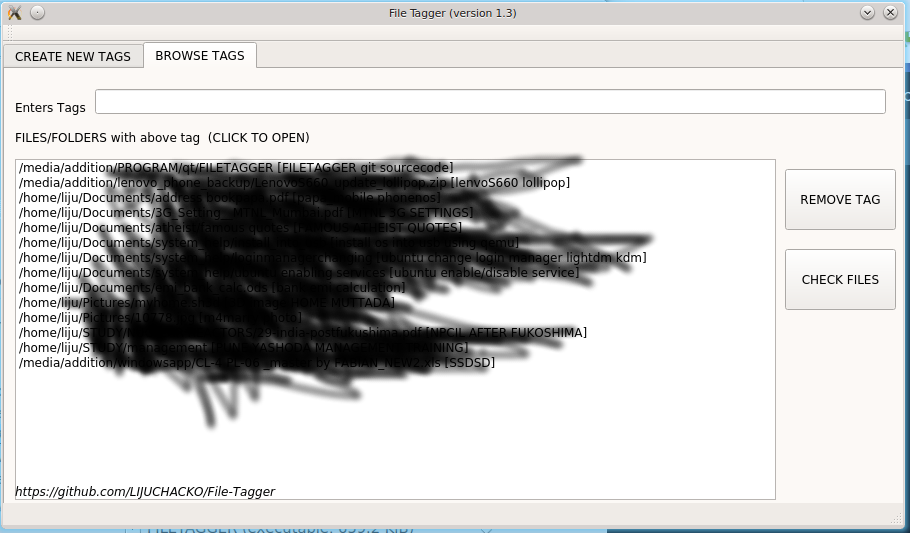
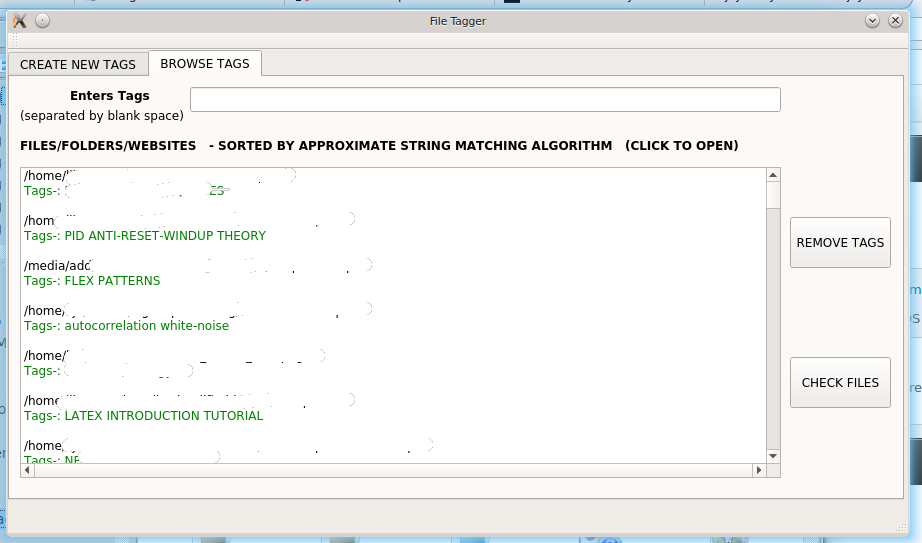
interface modified, corrected windows file separator bug

diff --git a/filetagger.cpp b/filetagger.cpp
@@ -40,7 +40,7 @@ float wordmatching(const QString &wordq1,const QString &wordq2)
     strcpy(word1,wordq1.toStdString().c_str());
     strcpy(word2,wordq2.toStdString().c_str());
 
-    int word1len, word2len ,consder1[200], consder2[200],k,i,j;
+    int word1len, word2len ,k,i,j;
 
     //tolower
     for(i=0;i<=strlen(word1);i++){
@@ -119,11 +119,13 @@ FileTagger::FileTagger(QWidget *parent) :
     ui->setupUi(this);
     ui->tabWidget->setTabText(0, "CREATE NEW TAGS");
     ui->tabWidget->setTabText(1, "BROWSE TAGS");
+    stoptagsorting=false;
+    ui->REMOVETAG->setEnabled(false);
     setWindowTitle("File Tagger");
 #ifdef WINDOWS
-    ui->version->setText("2.2 (windows)");
+    ui->version->setText("2.3 (windows)");
 #else
-    ui->version->setText("2.2 (linux)");
+    ui->version->setText("2.3 (linux)");
 #endif
     if( FILE_ARG.size()<1){
         ui->tabWidget->setCurrentIndex(1);
@@ -150,7 +152,7 @@ FileTagger::FileTagger(QWidget *parent) :
 
     OPENDATABASE();
     OPENHISTORY();
-    connect(ui->ADD_TAG,SIGNAL(clicked()), this, SLOT(ADD_TAG_ACTION()));
+    connect(ui->ADD_TAG,SIGNAL(clicked()), this, SLOT(SAVE_TAG_ACTION()));
     connect(ui->ENTER_TAG,SIGNAL(textChanged(QString)), this, SLOT(UPDATETAGLIST()));
     connect(ui->filename,SIGNAL(textChanged(QString)), this, SLOT(UPDATETAG()));
     connect(ui->ENTER_TAG_FIND,SIGNAL(textChanged(QString)), this, SLOT(SORTFILELIST()));
@@ -240,12 +242,16 @@ void FileTagger::dropEvent(QDropEvent *ev)
     if (mimeData->hasUrls()) {
         QList<QUrl> urlList = mimeData->urls();
         QString text = urlList.at(0).path();
-
+        if( text.at(text.length()-1) == '/' ) text.remove( text.length()-1, 1 );
 #ifdef WINDOWS
-        ui->filename->setText(text.right(text.size()-1));
-#else
-        ui->filename->setText(text);
+        text.replace("/","\\");
+        if( text.at(0) == '\\' ) text=text.right(text.size()-1);
+        if( text.at(text.length()-1) == '\\' ) text.remove( text.length()-1, 1 );
+
+
 #endif
+        ui->filename->setText(text);
+
         ui->tabWidget->setCurrentIndex(0);
         qDebug()<<text;
     }
@@ -267,9 +273,13 @@ void FileTagger::dragEnterEvent(QDragEnterEvent *ev)
 void FileTagger::OPEN_FILE()
 {
 
-    int LISTindex=ui->FILE_LIST->currentRow()/3;
-    if (ui->FILE_LIST->currentRow()%3>0)
+    int LISTindex=ui->FILE_LIST->currentRow()/2;
+    ui->REMOVETAG->setEnabled(false);
+    if (ui->FILE_LIST->currentRow()%2==1)
+        ui->REMOVETAG->setEnabled(true);
+    if (ui->FILE_LIST->currentRow()%2>0)
         return;
+
     QRegExp rx("#tags-:");
 
     QStringList queryl = DATABASE.at(LISTindex).split(rx);
@@ -323,7 +333,7 @@ void FileTagger::OPEN_FILE()
                     ui->history->scrollToBottom();
                     HISTORY<<"Added "+filenamenew+"#tags-:"+queryl.at(1);
                     ui->tabWidget->setCurrentIndex(0);
-                     DATABASE.removeAt(LISTindex);
+                    DATABASE.removeAt(LISTindex);
                     SAVEDATABASE();
                     UPDATE_FILELIST();
                     return;
@@ -415,7 +425,7 @@ void FileTagger::OPENDATABASE()
                 QStringList queryi = items.at(i).split(rxi);
                 QRegExp rx("(\\ |\\t)"); //RegEx for ' ' OR '\t'
                 QStringList query = queryi.at(1).split(rx);
-                ADDTAGS(query);
+                UPDATETAGDB(query);
             }
         }
 
@@ -470,18 +480,19 @@ void FileTagger::UPDATE_FILELIST()
     for (int i = 0; i < DATABASE.size(); ++i)
     {
         QStringList queryi = DATABASE.at(i).split(rx);
-
         ui->FILE_LIST->addItem(queryi.at(0));
-        ui->FILE_LIST->addItem("Tags-: "+queryi.at(1));
+        ui->FILE_LIST->addItem("Tags-: "+queryi.at(1)+"\n");
         ui->FILE_LIST->item(ui->FILE_LIST->count()-1)->setForeground(*(new QBrush(Qt::darkGreen)));
-        ui->FILE_LIST->addItem(" ");
+
+
+
     }
     ui->FILE_LIST->scrollToTop();
 }
 
 void FileTagger::AUTOCOMPLETETAG()
 {
-    //qDebug()<<"autocomplete";
+
     QRegExp rx("(\\ |\\t)");
     QString tag= ui->ENTER_TAG->text().trimmed();
     QStringList query = tag.split(rx);
@@ -497,7 +508,9 @@ void FileTagger::AUTOCOMPLETETAG()
     }else if(TAGS.size() >0) {
         finaltag=finaltag+TAGS.at(0)+" ";
     }
+    stoptagsorting=true;
     ui->ENTER_TAG->setText(finaltag);
+    stoptagsorting=false;
 }
 
 void  FileTagger::UPDATETAG()
@@ -511,7 +524,10 @@ void  FileTagger::UPDATETAG()
     filename.replace("file:///","/");
 
     if( filename.at(filename.length()-1) == '/' ) filename.remove( filename.length()-1, 1 );
-
+#ifdef WINDOWS
+    if( filename.at(filename.length()-1) == '\\' ) filename.remove( filename.length()-1, 1 );
+    filename.replace("/","\\");
+#endif
     QRegExp rx("#tags-:");
     for(int j=0;j<DATABASE.size();j++)
     {
@@ -592,7 +608,8 @@ void  FileTagger::SORTFILELIST()
 }
 void  FileTagger::UPDATETAGLIST()
 {
-
+    if (stoptagsorting)
+        return;
     QString tag= ui->ENTER_TAG->text();
     QString find;
     ui->PREVIOUS_TAGS->clear();
@@ -627,14 +644,27 @@ void  FileTagger::UPDATETAGLIST()
 
             }
         }
-        ui->PREVIOUS_TAGS->addItems(TAGS);
+
+        for (int i = 0; i < TAGS.size(); ++i)
+        {
+            if( score[i]>0)
+            {
+                QListWidgetItem *item = new QListWidgetItem();
+                item->setData(Qt::DisplayRole, TAGS.at(i));
+                item->setTextAlignment(Qt::AlignRight);
+                ui->PREVIOUS_TAGS->addItem(item);
+                ui->PREVIOUS_TAGS->item(ui->PREVIOUS_TAGS->count()-1)->setForeground(*(new QBrush(Qt::darkGreen)));
+
+            }
+
+        }
         ui->PREVIOUS_TAGS->scrollToTop();
-        int posi=ui->ENTER_TAG->cursorPosition();
-        // ui->PREVIOUS_TAGS->setGeometry(180+posi,100,201,91);
+
+
 
     }
 }
-void  FileTagger::ADDTAGS(QStringList tags)
+void  FileTagger::UPDATETAGDB(QStringList tags)
 {
 
     for(int j=0;j<tags.size();j++)
@@ -656,13 +686,13 @@ void FileTagger::REMOVEFROMDATABASE()
 {
 
     QRegExp rx("#tags-:");
-    int LISTindex=ui->FILE_LIST->currentRow()/3;
+    int LISTindex=ui->FILE_LIST->currentRow()/2;
 
     if( LISTindex>=0 && LISTindex<DATABASE.size())
     {
         QMessageBox::StandardButton reply;
         QStringList queryd = DATABASE.at(LISTindex).split(rx);
-        reply = QMessageBox::question(this, "Confirmation", queryd.at(0)+"\n Do you want to Delete?",
+        reply = QMessageBox::question(this, "Confirmation", queryd.at(0)+"\n Do you want to Remove Tags?",
                                       QMessageBox::Yes|QMessageBox::No);
         if (reply == QMessageBox::Yes) {
 
@@ -722,7 +752,7 @@ void FileTagger::ADDTODATABASE(QString data)
 
 
 }
-void FileTagger::ADD_TAG_ACTION()
+void FileTagger::SAVE_TAG_ACTION()
 {
     OPENDATABASE();
     QString NEW_TAG= ui->ENTER_TAG->text().trimmed();
@@ -737,6 +767,11 @@ void FileTagger::ADD_TAG_ACTION()
     }
     file.replace("file:///","/");
     if( file.at(file.length()-1) == '/' ) file.remove( file.length()-1, 1 );
+
+#ifdef WINDOWS
+    if( file.at(file.length()-1) == '\\' ) file.remove( file.length()-1, 1 );
+    file.replace("/","\\");
+#endif
     if(file.size()>4){
         QString subString=file.left(3);
         if (subString=="htt")
@@ -784,7 +819,7 @@ void FileTagger::ADD_TAG_ACTION()
         }
     }
 
-    ADDTAGS(query);
+    UPDATETAGDB(query);
 
 
     if (QDir(file).exists()||QFile(file).exists()||ishttp) {

diff --git a/filetagger.h b/filetagger.h
@@ -26,6 +26,7 @@
 #include <QFileSystemWatcher>
 #include <QFileSystemModel>
 #include <QCompleter>
+#include <QListWidgetItem>
 
 QT_BEGIN_NAMESPACE
 class QMimeData;
@@ -58,9 +59,9 @@ public:
 private slots:
     void dropEvent(QDropEvent *ev) Q_DECL_OVERRIDE;
     void dragEnterEvent(QDragEnterEvent *ev) Q_DECL_OVERRIDE;
-    void ADD_TAG_ACTION();
+    void SAVE_TAG_ACTION();
     void ADDTODATABASE(QString data );
-    void ADDTAGS(QStringList tags);
+    void UPDATETAGDB(QStringList tags);
     void UPDATETAGLIST();
     void UPDATETAG();
     void SORTFILELIST();
@@ -74,6 +75,7 @@ private:
     Ui::FileTagger *ui;
     QFileSystemWatcher *watcher;
      QCompleter *completer;
+    bool stoptagsorting;
 
 };
 

diff --git a/README.md b/README.md
@@ -45,7 +45,7 @@ Run following as root
 
 Usage (for linux user)
 ------------------------------------
-  1. In Dolphin file browser, right click on the folder/file and select "ADD TAG" in actions menu. Enter the tags to bookmark the file and press "ADD TAG" button.Similar tags used before will be listed below. By clicking on them or by pressing enter, last tag can be replaced. For nautilus right click select script and run ADD TAG SCRIPT.
+  1. In Dolphin file browser, right click on the folder/file and select "ADD TAG" in actions menu. Enter the tags to bookmark the file and press "SAVE TAGS" button.Similar tags used before will be listed below. By clicking on them or by pressing enter, last tag can be replaced. For nautilus right click select script and run ADD TAG SCRIPT.
   
   2. In the "Browse Tag" tab, enter tags you want to search and files with approximate matching tags will come on the top.By clicking on file path/websites they will open in appropriate program.
 
